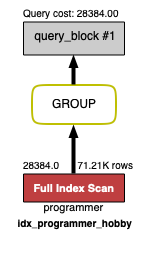
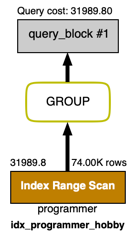
docs: 1번 쿼리 개선 수정

diff --git a/README.md b/README.md
@@ -168,28 +168,26 @@ from record r
 
 1. 인덱스 적용해보기 실습을 진행해본 과정을 공유해주세요
 
-- Coding as a Hobby 와 같은 결과를 반환하세요.
+### 1. Coding as a Hobby 와 같은 결과를 반환하세요.
 
 ```mysql
-select hobby, round(count(*) / (select count(*) from programmer) * 100, 1)
-from programmer
+select hobby as '취미', round(count(*) / (select count(*) from programmer) * 100, 1) as 'percent'
+from programmer where hobby = 'Yes' or hobby = 'No'
 group by hobby;
 ```
 
 #### 개선전  
-0.477 sec / 0.000021 sec
+Duration/Fetch Time : 0.477 sec / 0.000021 sec
 
-index 추가
-
+#### 개선 작업
 ```mysql
-CREATE INDEX `idx_programmer_hobby` ON `subway`.`programmer` (hobby)
-
+CREATE INDEX `idx_programmer_hobby` ON `subway`.`programmer` (hobby);
 ```
 
-#### 개선 후 : 0.070 sec / 0.0000069 sec
+#### 개선 후 : 0.062 sec / 0.000022 sec
 ![after_explain_1.png](after_explain_1.png)
 
-- 프로그래머별로 해당하는 병원 이름을 반환하세요. (covid.id, hospital.name)
+### 2. 프로그래머별로 해당하는 병원 이름을 반환하세요. (covid.id, hospital.name)
 
 #### 실행 쿼리
 ```mysql
@@ -200,8 +198,8 @@ from hospital h
 ```
 
 #### 개선전
-0.712 sec / 0.378 sec
-개선 작업
+Duration/Fetch Time : 0.712 sec / 0.378 sec
+#### 개선 작업
 ```mysql
 alter table `covid` add primary key(id);
 alter table `programmer` add primary key (id);
@@ -212,10 +210,10 @@ CREATE INDEX `idx_programmer_id`  ON `subway`.`programmer` (id) ;
 ```
 
 #### 개선후
-0.011 sec / 0.00045 sec
+Duration/Fetch Time : 0.011 sec / 0.00045 sec
 ![after_explain_2.png](after_explain_2.png)
 
-- 프로그래밍이 취미인 학생 혹은 주니어(0-2년)들이 다닌 병원 이름을 반환하고 user.id 기준으로 정렬하세요.
+### 3. 프로그래밍이 취미인 학생 혹은 주니어(0-2년)들이 다닌 병원 이름을 반환하고 user.id 기준으로 정렬하세요.
   (covid.id, hospital.name, user.Hobby, user.DevType, user.YearsCoding)
 
 #### 실행 쿼리
@@ -244,7 +242,7 @@ CREATE INDEX `idx_programmer_hobby_student_years_coding`  ON `subway`.`programme
 0.011 sec / 0.0053 sec
 ![after_explain_3.png](after_explain_3.png)
 
-- 서울대병원에 다닌 20대 India 환자들을 병원에 머문 기간별로 집계하세요. (covid.Stay)
+### 4. 서울대병원에 다닌 20대 India 환자들을 병원에 머문 기간별로 집계하세요. (covid.Stay)
 
 #### 실행 쿼리
 ```mysql
@@ -274,7 +272,7 @@ CREATE INDEX `idx_programmer_country`  ON `subway`.`programmer` (`country`) ;
 0.056 sec / 0.000023 sec
 ![after_explain_4.png](after_explain_4.png)
 
-- 서울대병원에 다닌 30대 환자들을 운동 횟수별로 집계하세요. (user.Exercise)
+### 5. 서울대병원에 다닌 30대 환자들을 운동 횟수별로 집계하세요. (user.Exercise)
 
 #### 실행 쿼리
 ```mysql
@@ -297,6 +295,7 @@ alter table `programmer` add primary key (`id`);
 alter table `hospital` add primary key (`id`);
 alter table `member` add primary key(`id`);
 CREATE INDEX `idx_covid_hospital_id`  ON `subway`.`covid` (`hospital_id`) ;
+CREATE INDEX `idx_covid_member_id`  ON `subway`.`covid` (`member_id`) ;
 CREATE INDEX `idx_programmer_member_id`  ON `subway`.`programmer` (`member_id`) ;
 CREATE INDEX `idx_member_age`  ON `subway`.`member` (`age`) ;
 CREATE INDEX `idx_hospital_name`  ON `subway`.`hospital` (`name`) ;
